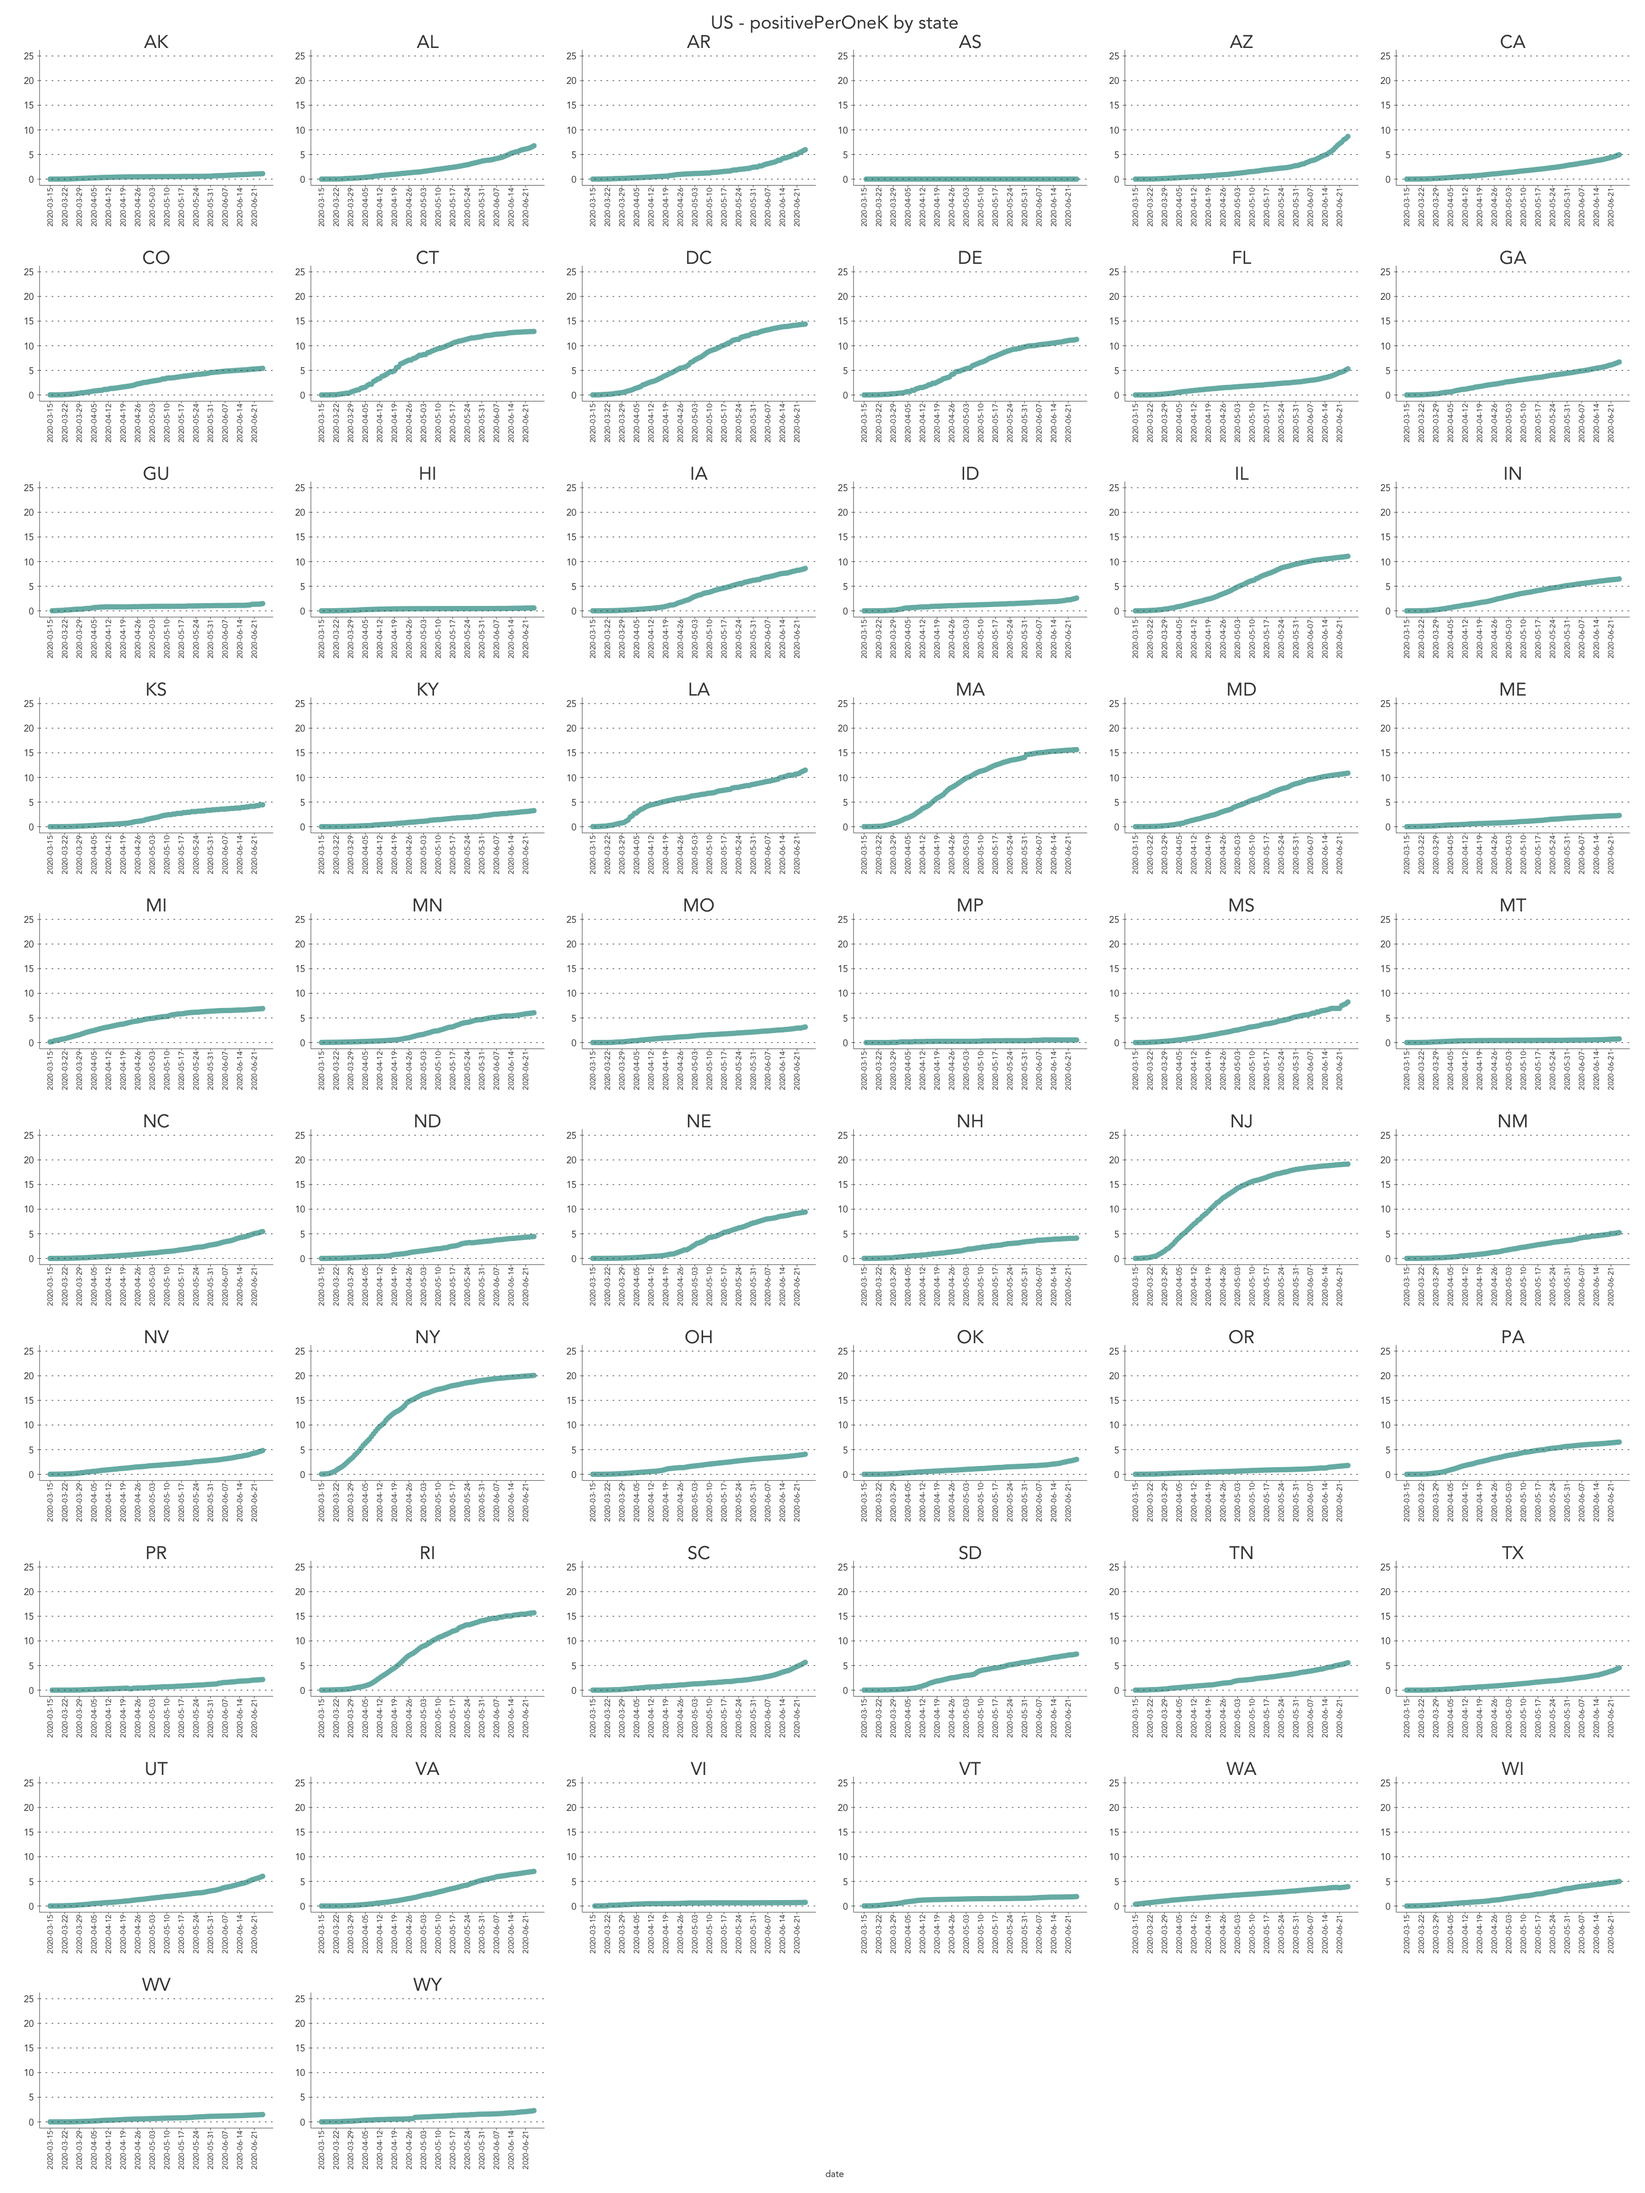
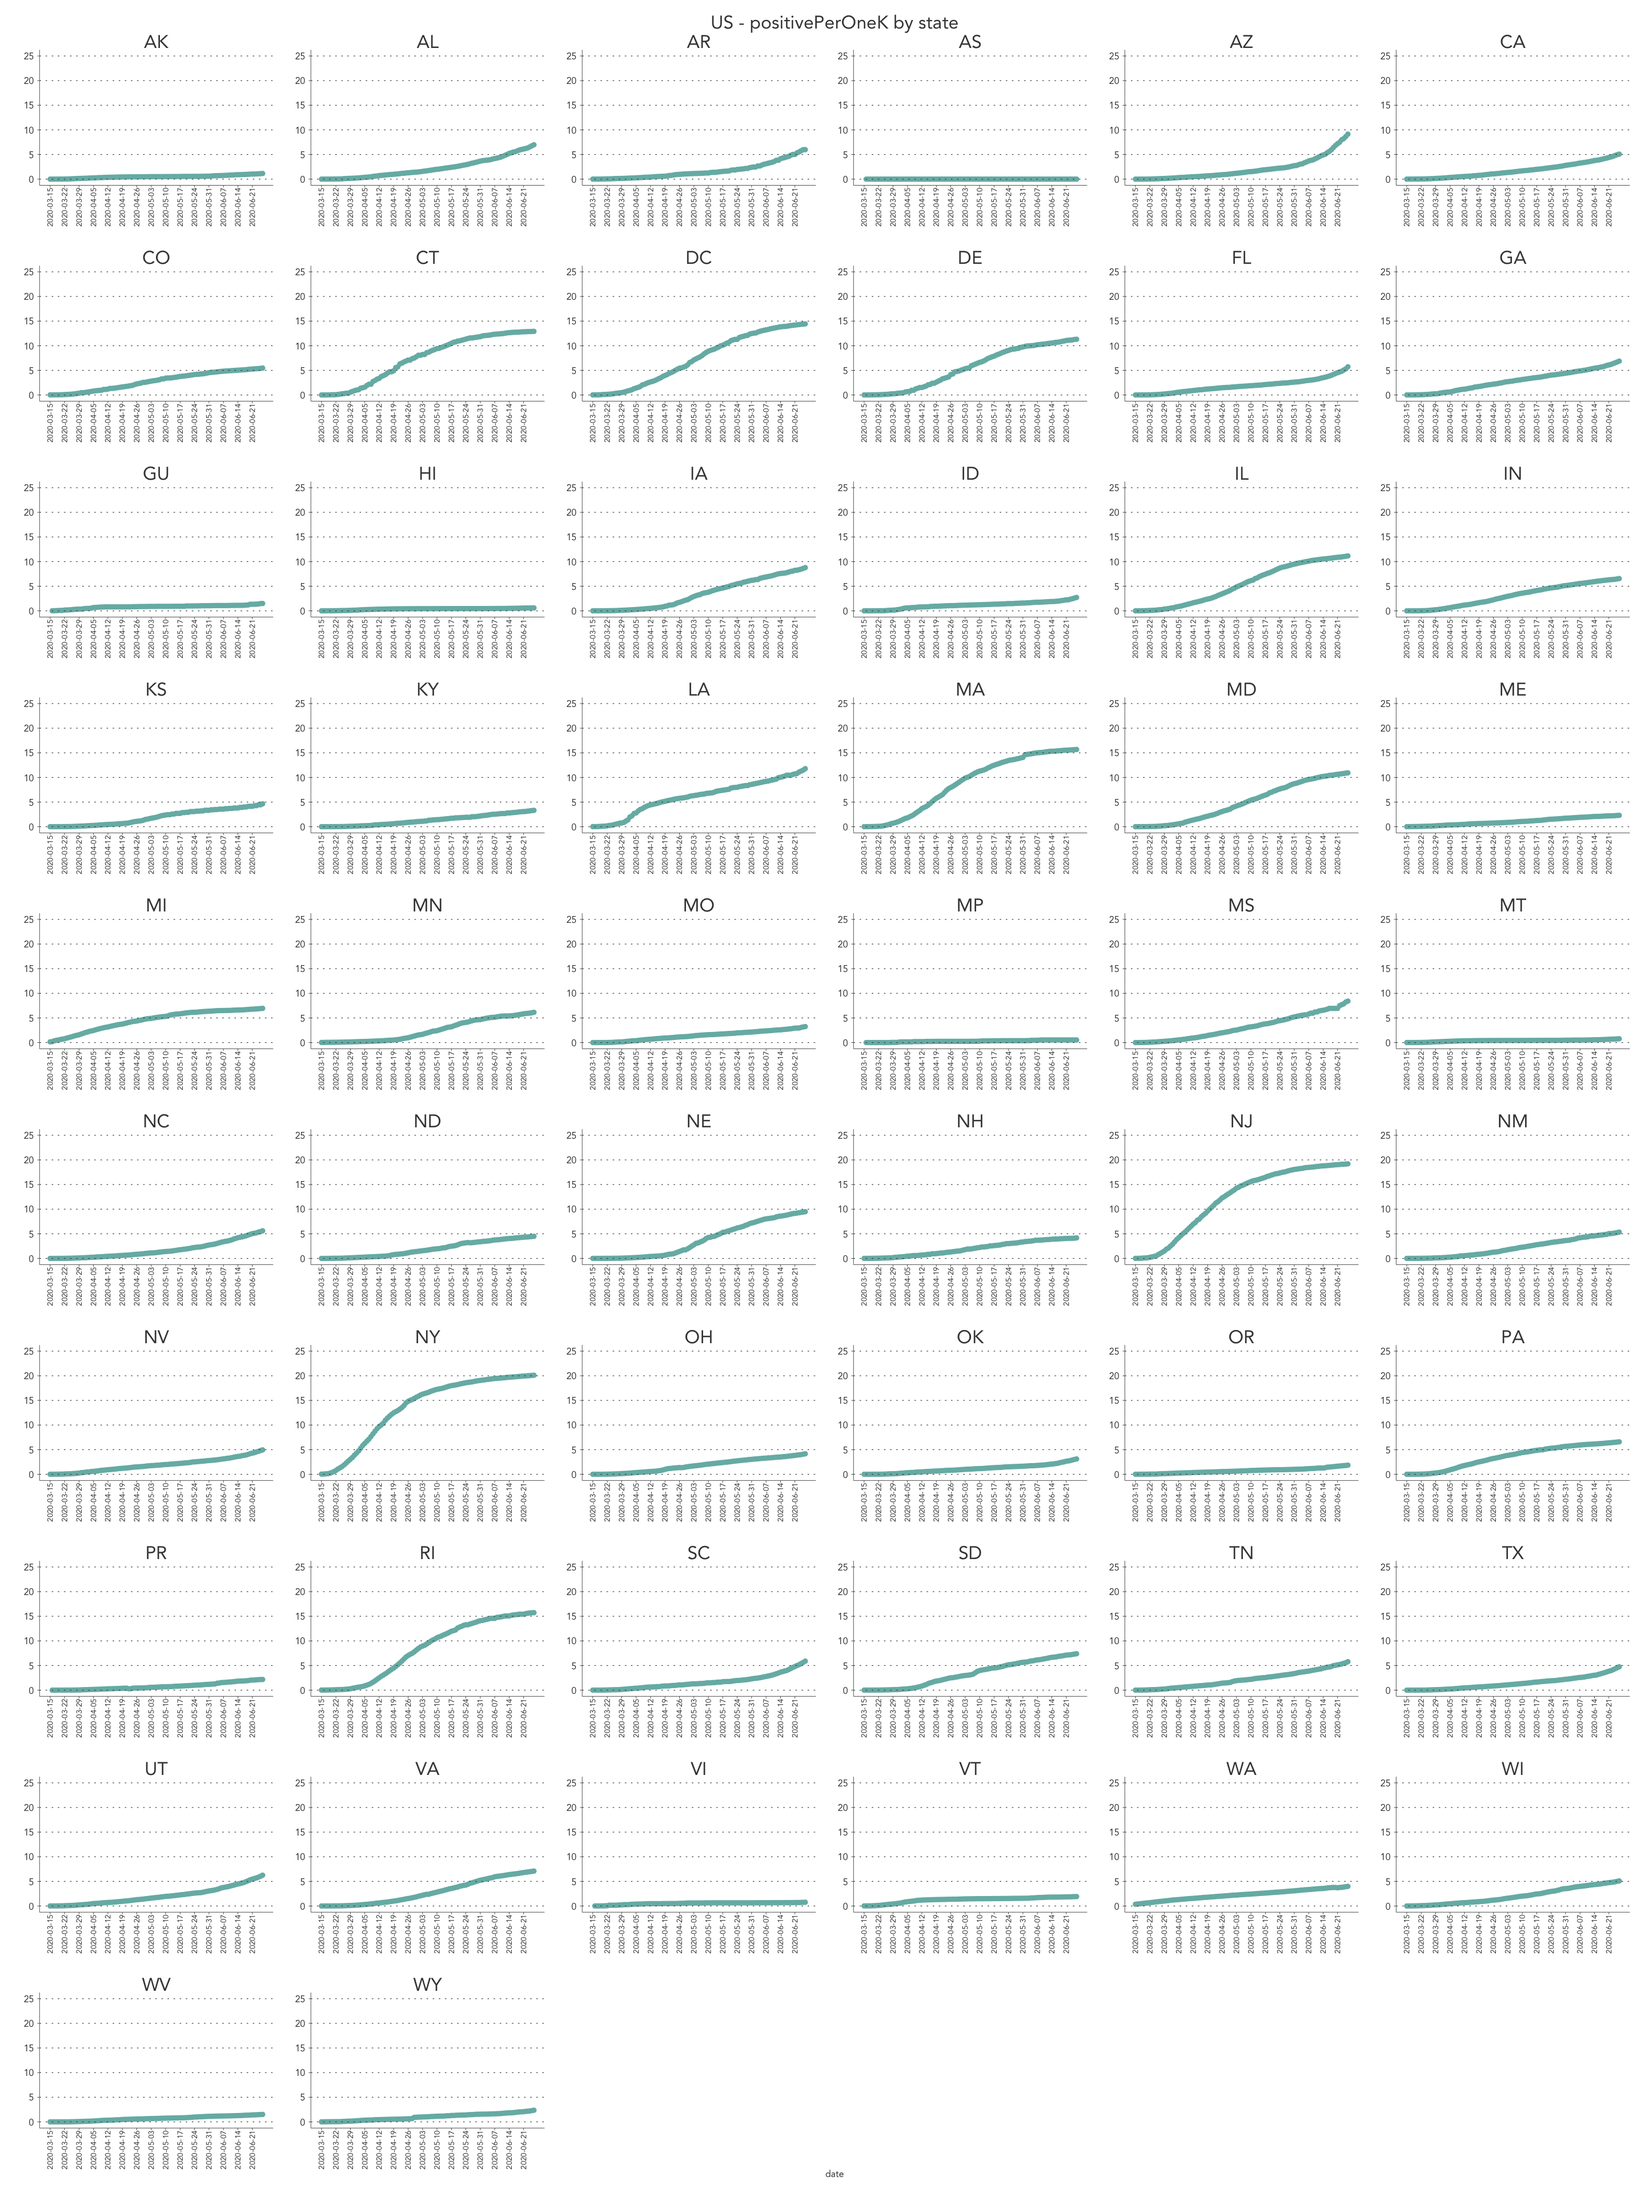
0626 data

diff --git a/covid19-vis.html b/covid19-vis.html
@@ -305,52 +305,19 @@ population
 <tbody>
 <tr>
 <td style="text-align:left;">
-2020-06-25
+2020-06-26
 </td>
 <td style="text-align:left;">
 AK
 </td>
 <td style="text-align:right;">
-816
+836
 </td>
 <td style="text-align:right;">
-98636
-</td>
-<td style="text-align:right;">
-0
-</td>
-<td style="text-align:right;">
-14
+100956
 </td>
 <td style="text-align:right;">
 0
-</td>
-<td style="text-align:right;">
-0
-</td>
-<td style="text-align:right;">
-0
-</td>
-<td style="text-align:right;">
-2
-</td>
-<td style="text-align:right;">
-0
-</td>
-<td style="text-align:right;">
-513
-</td>
-<td style="text-align:left;">
-A
-</td>
-<td style="text-align:left;">
-6/25/2020 00:00
-</td>
-<td style="text-align:left;">
-2020-06-25T00:00:00Z
-</td>
-<td style="text-align:left;">
-06/24 20:00
 </td>
 <td style="text-align:right;">
 12
@@ -358,11 +325,44 @@ A
 <td style="text-align:right;">
 0
 </td>
-<td style="text-align:left;">
-2020-06-25T00:00:00Z
+<td style="text-align:right;">
+0
 </td>
 <td style="text-align:right;">
-99452
+0
+</td>
+<td style="text-align:right;">
+2
+</td>
+<td style="text-align:right;">
+0
+</td>
+<td style="text-align:right;">
+519
+</td>
+<td style="text-align:left;">
+A
+</td>
+<td style="text-align:left;">
+6/26/2020 00:00
+</td>
+<td style="text-align:left;">
+2020-06-26T00:00:00Z
+</td>
+<td style="text-align:left;">
+06/25 20:00
+</td>
+<td style="text-align:right;">
+14
+</td>
+<td style="text-align:right;">
+0
+</td>
+<td style="text-align:left;">
+2020-06-26T00:00:00Z
+</td>
+<td style="text-align:right;">
+101792
 </td>
 <td style="text-align:right;">
 0
@@ -377,31 +377,31 @@ A
 2
 </td>
 <td style="text-align:right;">
-24
+20
 </td>
 <td style="text-align:right;">
-3332
+2320
 </td>
 <td style="text-align:right;">
-99452
+101792
 </td>
 <td style="text-align:right;">
-99452
+101792
 </td>
 <td style="text-align:right;">
-3356
+2340
 </td>
 <td style="text-align:right;">
-99452
+101792
 </td>
 <td style="text-align:right;">
-0
+2
 </td>
 <td style="text-align:right;">
 0
 </td>
 <td style="text-align:left;">
-74506565ff9f0d6621e232e1e62239d658786e81
+2d488ae6053360ee51e30da54826ae89e3d5f6bc
 </td>
 <td style="text-align:right;">
 0
@@ -427,37 +427,37 @@ A
 </tr>
 <tr>
 <td style="text-align:left;">
-2020-06-25
+2020-06-26
 </td>
 <td style="text-align:left;">
 AL
 </td>
 <td style="text-align:right;">
-33206
+34183
 </td>
 <td style="text-align:right;">
-336252
-</td>
-<td style="text-align:right;">
-0
-</td>
-<td style="text-align:right;">
-693
-</td>
-<td style="text-align:right;">
-2612
+344140
 </td>
 <td style="text-align:right;">
 0
 </td>
 <td style="text-align:right;">
-761
+658
+</td>
+<td style="text-align:right;">
+2653
 </td>
 <td style="text-align:right;">
 0
 </td>
 <td style="text-align:right;">
-447
+772
+</td>
+<td style="text-align:right;">
+0
+</td>
+<td style="text-align:right;">
+450
 </td>
 <td style="text-align:right;">
 18866
@@ -466,22 +466,22 @@ AL
 B
 </td>
 <td style="text-align:left;">
-6/25/2020 11:00
+6/26/2020 11:00
 </td>
 <td style="text-align:left;">
-2020-06-25T11:00:00Z
+2020-06-26T11:00:00Z
 </td>
 <td style="text-align:left;">
-06/25 07:00
+06/26 07:00
 </td>
 <td style="text-align:right;">
-896
+907
 </td>
 <td style="text-align:right;">
-2612
+2653
 </td>
 <td style="text-align:left;">
-2020-06-25T11:00:00Z
+2020-06-26T11:00:00Z
 </td>
 <td style="text-align:right;">
 0
@@ -493,37 +493,37 @@ B
 0
 </td>
 <td style="text-align:right;">
-32753
+33717
 </td>
 <td style="text-align:right;">
 1
 </td>
 <td style="text-align:right;">
-1142
+977
 </td>
 <td style="text-align:right;">
-9557
+7888
 </td>
 <td style="text-align:right;">
-369458
+378323
 </td>
 <td style="text-align:right;">
-369458
+378323
 </td>
 <td style="text-align:right;">
-10699
+8865
 </td>
 <td style="text-align:right;">
-369458
+378323
 </td>
 <td style="text-align:right;">
-5
+11
 </td>
 <td style="text-align:right;">
-45
+41
 </td>
 <td style="text-align:left;">
-17d9d87e1df190897ce93d3fcbb382e6dac460e3
+3bc8263099834fe738b66ab83ad9051e791e260c
 </td>
 <td style="text-align:right;">
 0
@@ -549,7 +549,7 @@ B
 </tr>
 <tr>
 <td style="text-align:left;">
-2020-06-25
+2020-06-26
 </td>
 <td style="text-align:left;">
 AR
@@ -567,7 +567,7 @@ AR
 284
 </td>
 <td style="text-align:right;">
-1245
+1300
 </td>
 <td style="text-align:right;">
 0
@@ -579,7 +579,7 @@ AR
 61
 </td>
 <td style="text-align:right;">
-194
+203
 </td>
 <td style="text-align:right;">
 12127
@@ -588,22 +588,22 @@ AR
 A
 </td>
 <td style="text-align:left;">
-6/25/2020 15:20
+6/26/2020 14:40
 </td>
 <td style="text-align:left;">
-2020-06-25T15:20:00Z
+2020-06-26T14:40:00Z
 </td>
 <td style="text-align:left;">
-06/25 11:20
+06/26 10:40
 </td>
 <td style="text-align:right;">
 240
 </td>
 <td style="text-align:right;">
-1245
+1300
 </td>
 <td style="text-align:left;">
-2020-06-25T15:20:00Z
+2020-06-26T14:40:00Z
 </td>
 <td style="text-align:right;">
 0
@@ -615,25 +615,19 @@ A
 0
 </td>
 <td style="text-align:right;">
-18062
+18740
 </td>
 <td style="text-align:right;">
 5
 </td>
 <td style="text-align:right;">
-687
+0
 </td>
 <td style="text-align:right;">
-4827
-</td>
-<td style="text-align:right;">
-277380
+0
 </td>
 <td style="text-align:right;">
 277380
-</td>
-<td style="text-align:right;">
-5514
 </td>
 <td style="text-align:right;">
 277380
@@ -642,10 +636,16 @@ A
 0
 </td>
 <td style="text-align:right;">
-31
+277380
+</td>
+<td style="text-align:right;">
+0
+</td>
+<td style="text-align:right;">
+55
 </td>
 <td style="text-align:left;">
-651dd04526a06699eef6c83fc27f1850be5e46cb
+3a3818c25eff5da0debaf9e511a69bf6cbbb96d7
 </td>
 <td style="text-align:right;">
 0
